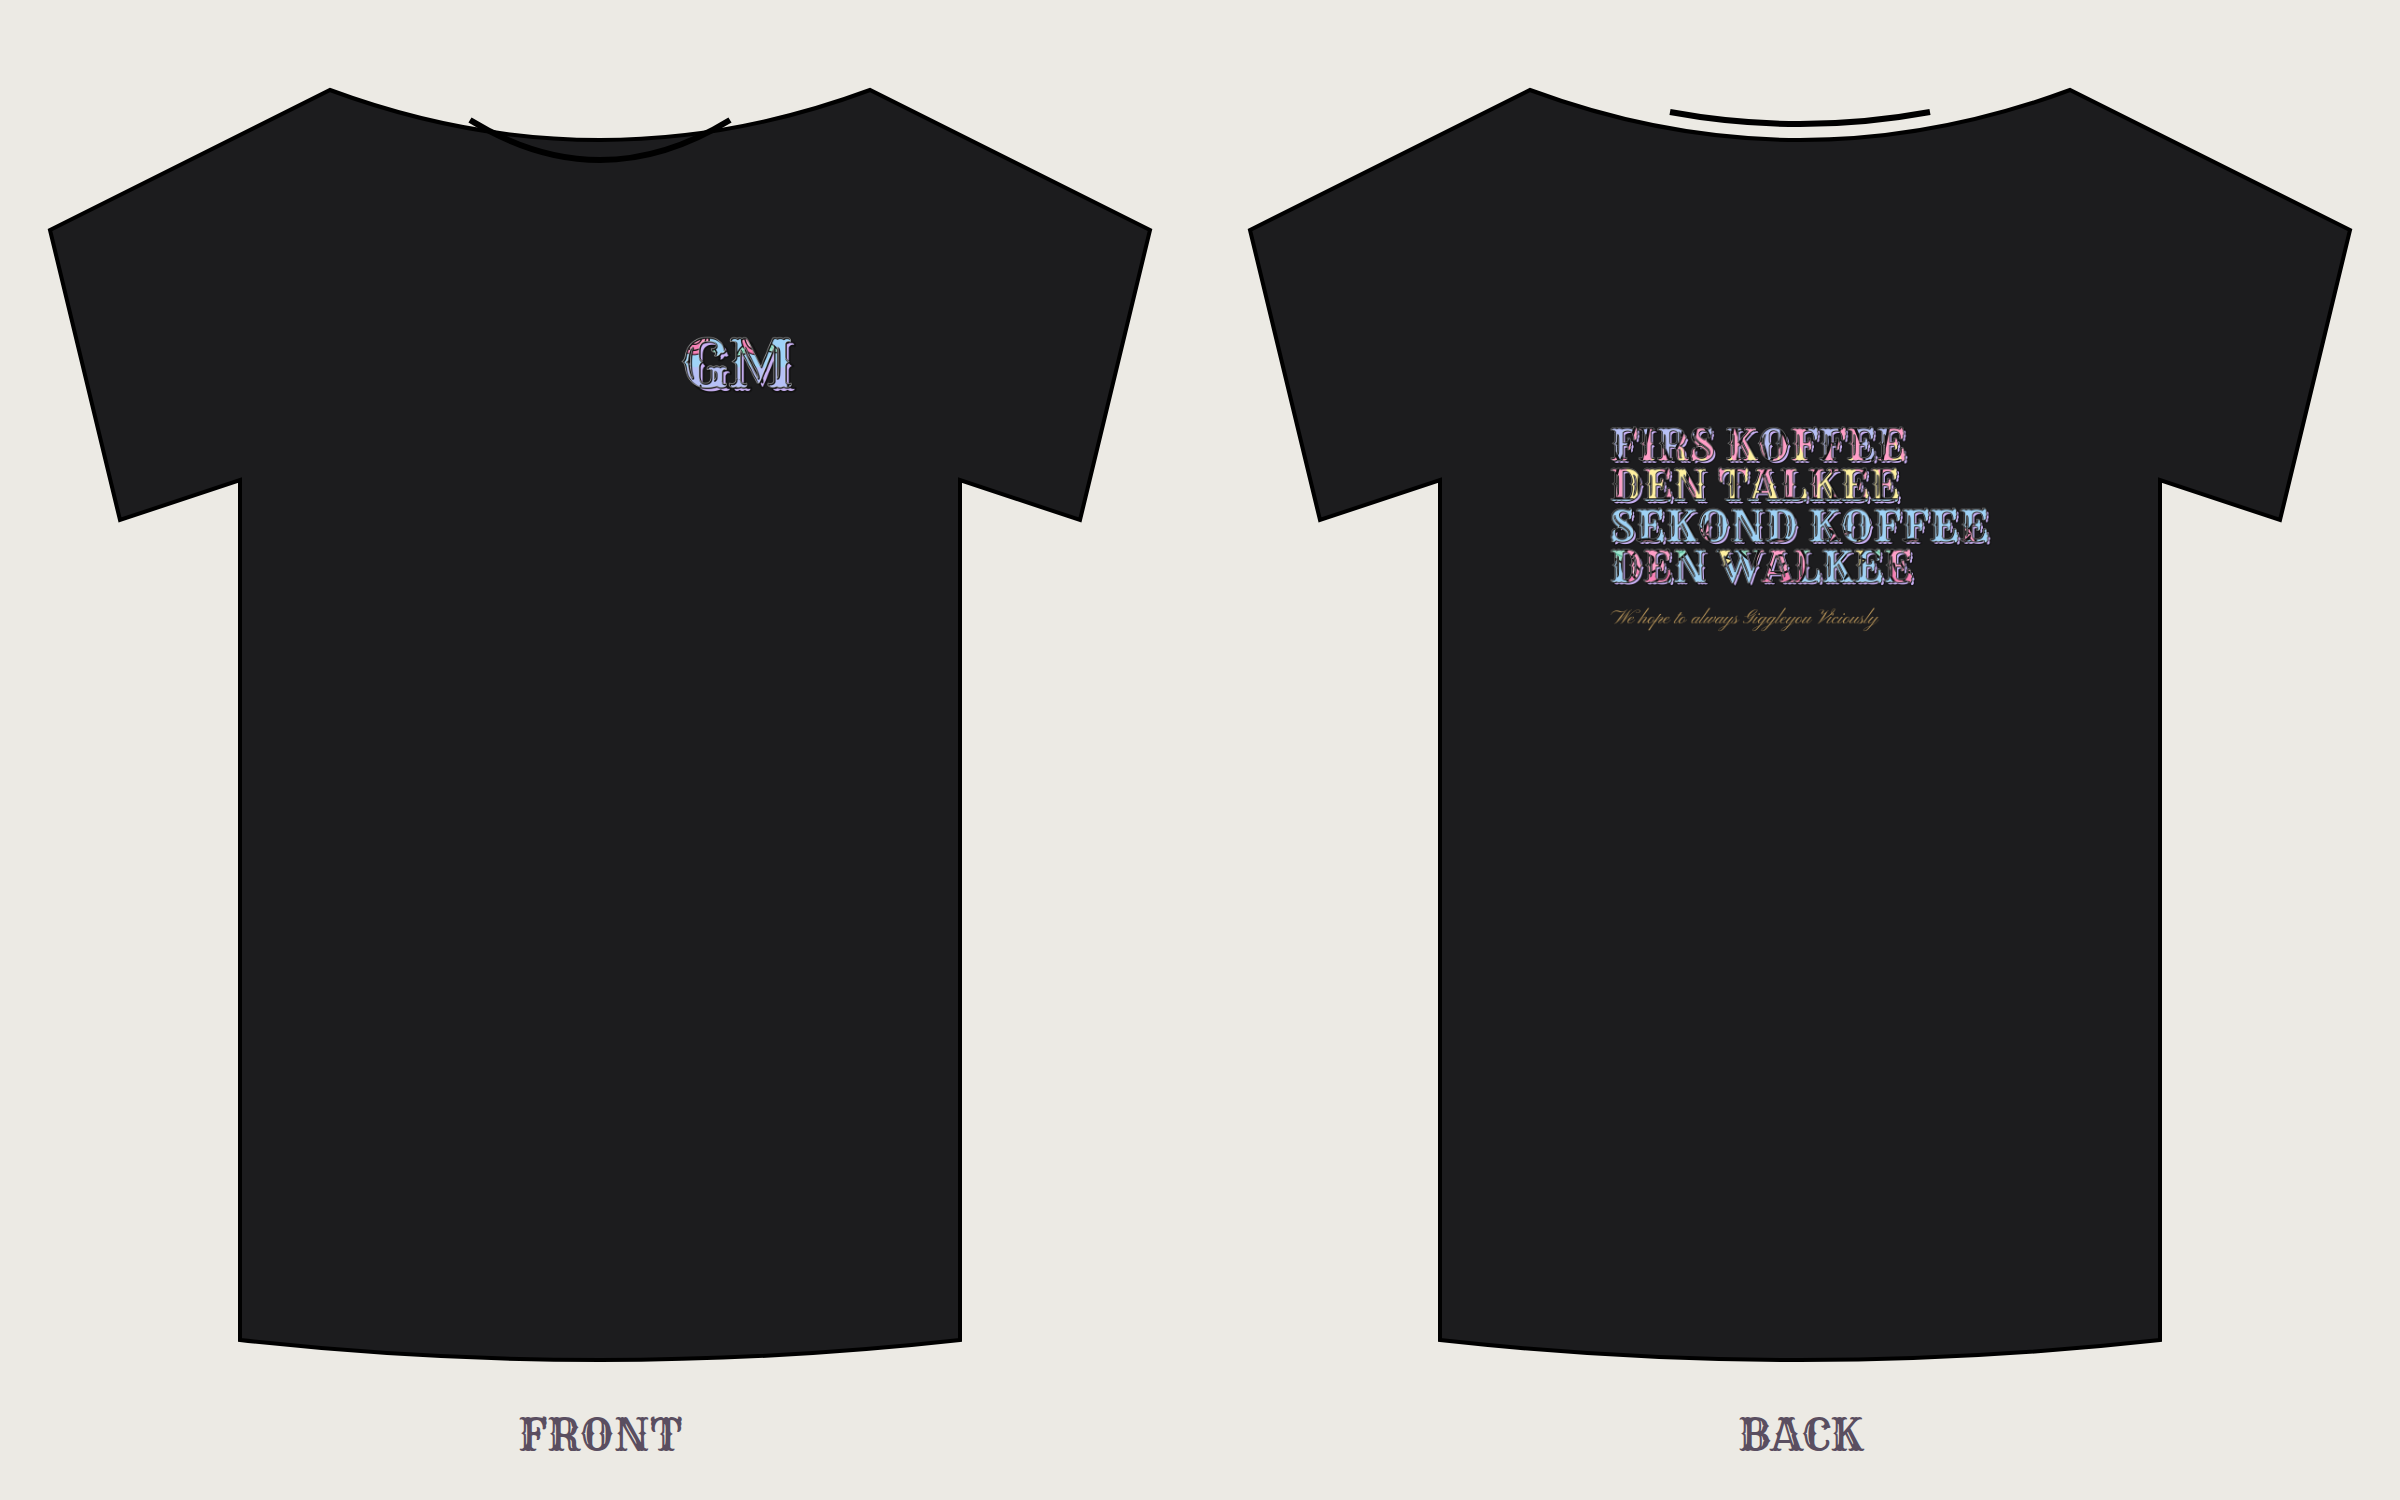
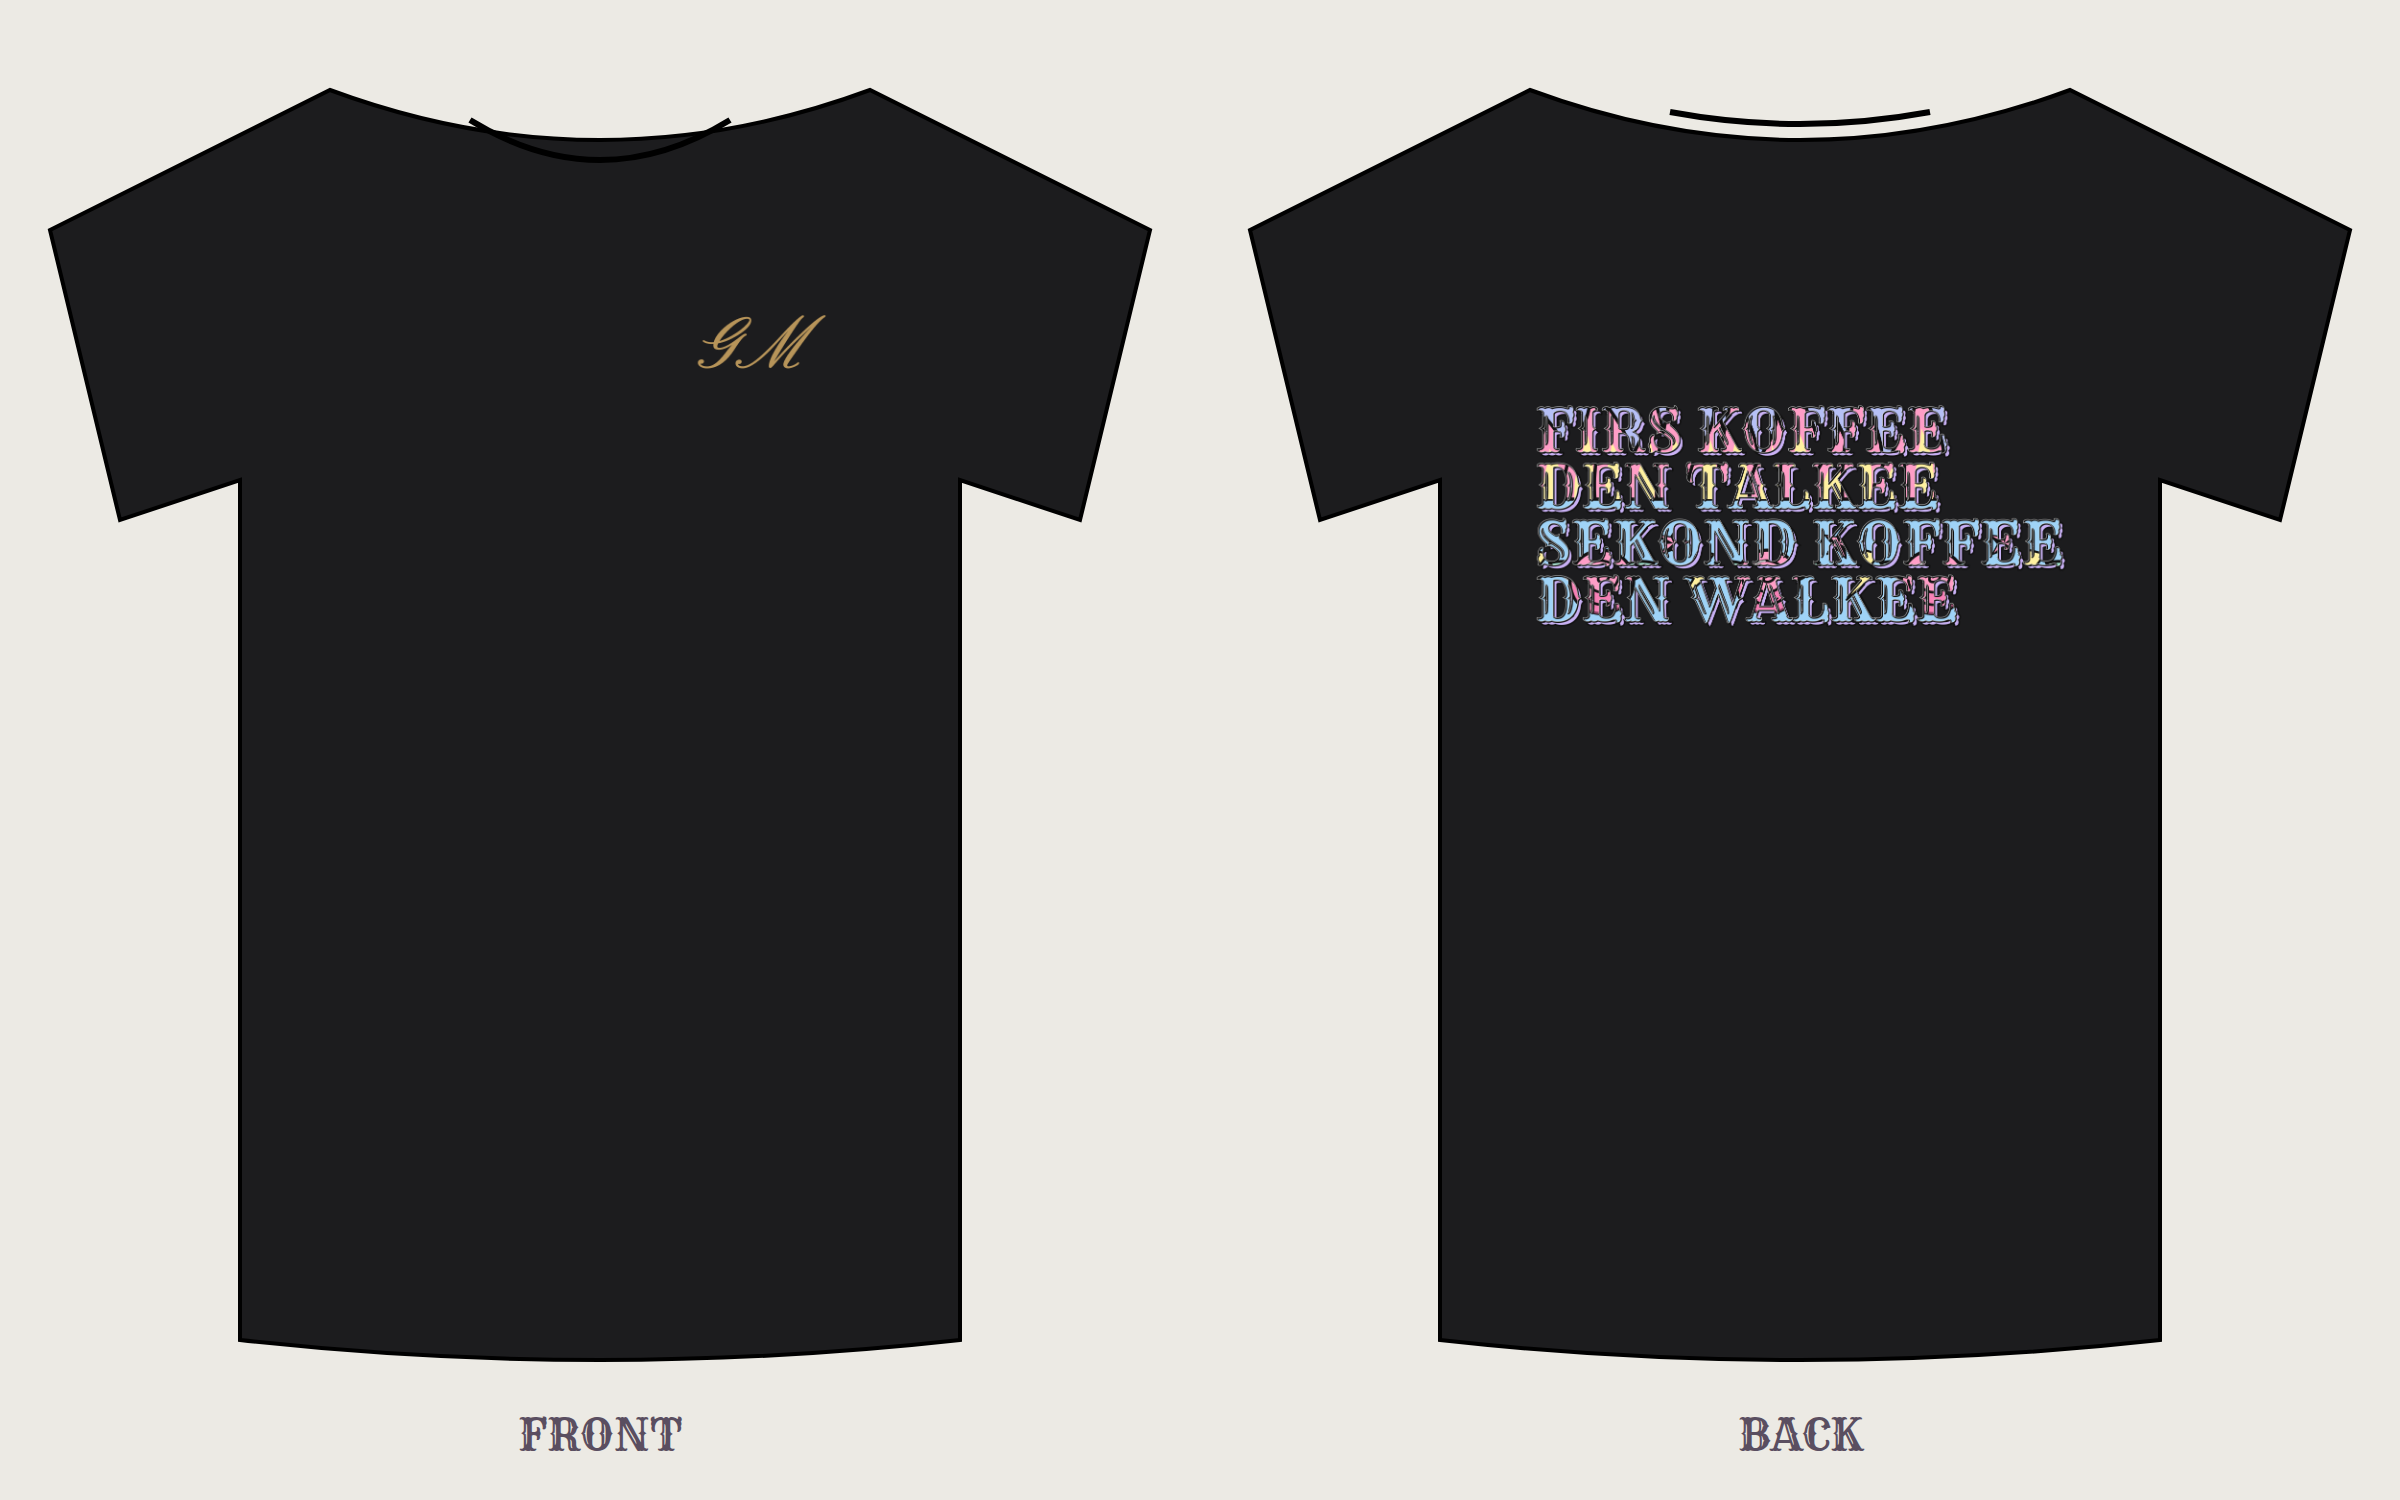
Series 01: oversize backs without tagline, gold script GM on chest
All ten back prints now use Printful's biggest 15x18 in back size with no
tagline. The left-chest GM is matte-gold old-style script, with a fine
gold outline so the hairlines print cleanly. README updated.

Claude-Session: https://claude.ai/code/session_01SBY6dR2H7LfBCYUkSdoXAH

Changed region(s): [[0.625, 0.2453, 0.875, 0.4293], [0.2812, 0.2147, 0.3438, 0.276]]

diff --git a/designs/series-01/README.md b/designs/series-01/README.md
@@ -4,25 +4,25 @@
 
 ![Front and back](../previews/series-01-front-back.jpg)
 
-Ten tees in the GiggleMe tattoo-ink style: a small **GM** on the front left chest and a stacked saying on the back, signed with the gold tagline.
+Ten tees: a matte-gold script **GM** on the front left chest, and a stacked saying in the GiggleMe tattoo-ink style across the back at Printful's biggest back size. Every letter on a back is the same size, every line starts at the same left edge, and the block is centered top to bottom.
 
 ## Files
 
 | File | Where it prints | Size |
 |---|---|---|
-| `gm-left-chest.png` | **Front, left chest** (same file on every shirt) | 1200 × 1200 px · 4 × 4 in · 300 DPI |
-| `<design>/back-print.png` | **Back** | 3600 × 4800 px · 12 × 16 in · 300 DPI |
+| `gm-left-chest.png` | **Front, left chest** (same file on every shirt): GM in matte-gold script | 1200 × 1200 px · 4 × 4 in · 300 DPI |
+| `<design>/back-print.png` | **Back**, oversize | 4500 × 5400 px · 15 × 18 in · 300 DPI |
 | `<design>/mockup.png` | Preview only | |
 
-The letters carry their own black outline and colors, so the same files work on **black, navy, charcoal, white and cream** shirts.
+The back letters carry their own black outline and colors, so they work on any shirt color. The gold GM shows best on **black, navy and charcoal**; on white or cream it reads softer.
 
 ## Set it up in Printful
 
-1. **Add product** → Bella+Canvas 3001 (or Comfort Colors 1717 for a heavier, vintage feel).
+1. **Add product** → pick a tee that offers the **oversize 15 × 18 in back print** (filter for it in Printful's product list). If you choose a tee without it, Printful shrinks the back to 12 × 16 in.
 2. Under **Front**, choose the **Left chest** placement and upload `gm-left-chest.png`. Keep it about 3.5–4 in wide.
-3. Under **Back**, upload that design's `back-print.png`. Keep it at the top of the print area, centered, about 12 in wide.
+3. Under **Back**, choose the oversize/large back placement and upload that design's `back-print.png`. Keep it centered and full size (about 15 in wide).
 4. Pick colors: start with **Black** and **Navy**.
-5. Price: two print spots cost more at Printful, so price around **$32.99–34.99**.
+5. Price: two print spots plus an oversize back cost more at Printful, so price around **$34.99–36.99**.
 6. Paste the listing text below and submit. Save the first one as a product template.
 
 ## Listing text
